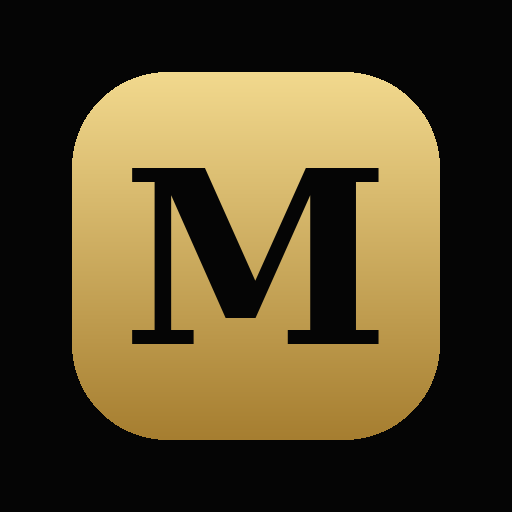
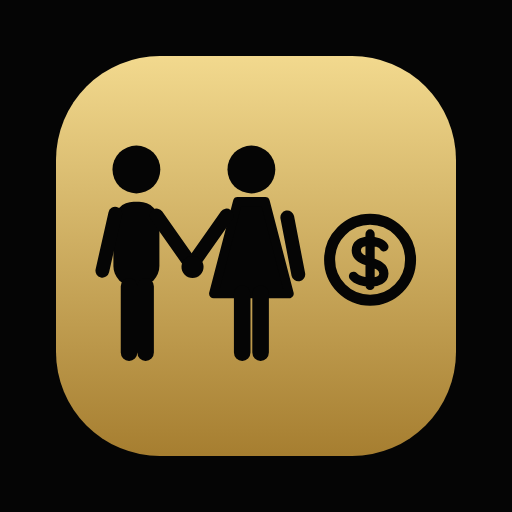
Add files via upload

Changed region(s): [[0.1875, 0.2812, 0.8125, 0.7188], [0.0938, 0.0938, 0.9062, 0.9062]]

diff --git a/index.html b/index.html
@@ -3,11 +3,11 @@
 <head>
 <meta charset="utf-8">
 <meta name="viewport" content="width=device-width, initial-scale=1">
-<title>Minhas Finanças</title>
+<title>Finanças Família Rocha</title>
 <meta name="theme-color" content="#050505">
 <meta name="apple-mobile-web-app-capable" content="yes">
 <meta name="mobile-web-app-capable" content="yes">
-<meta name="apple-mobile-web-app-title" content="Finanças">
+<meta name="apple-mobile-web-app-title" content="Família Rocha">
 <meta name="apple-mobile-web-app-status-bar-style" content="black">
 <link rel="manifest" href="manifest.webmanifest">
 <link rel="icon" type="image/png" href="icone-192.png">
@@ -284,14 +284,32 @@ h1, h2, h3, p { margin: 0; text-wrap: balance; }
   .login { border-radius: 20px; }
 }
 
+.marca-selo svg { width: 24px; height: auto; display: block; }
+.login-marca .marca-nome { font-size: 19px; }
+
 </style>
 </head>
 <body>
 <div class="app">
   <header class="topo">
     <div class="marca">
-      <span class="marca-selo" aria-hidden="true">M</span>
-      <span class="marca-nome">Minhas Finanças</span>
+      <span class="marca-selo" aria-hidden="true"><svg xmlns="http://www.w3.org/2000/svg" viewBox="105 130 360 260" aria-hidden="true"><g fill="#050505" stroke="#050505" stroke-linecap="round" stroke-linejoin="round">
+  <circle cx="160" cy="168" r="26" stroke="none"/>
+  <rect x="135" y="203" width="50" height="92" rx="22" stroke="none"/>
+  <path d="M152 295v72M170 295v72" stroke-width="18" fill="none"/>
+  <path d="M137 216l-14 62" stroke-width="15" fill="none"/>
+  <path d="M182 218l38 54" stroke-width="15" fill="none"/>
+  <circle cx="285" cy="168" r="26" stroke="none"/>
+  <path d="M270 203h30l26 100h-82z" stroke-width="10"/>
+  <path d="M275 303v64M295 303v64" stroke-width="18" fill="none"/>
+  <path d="M324 220l12 62" stroke-width="15" fill="none"/>
+  <path d="M258 218l-38 54" stroke-width="15" fill="none"/>
+  <circle cx="221" cy="274" r="12" stroke="none"/>
+  <circle cx="414" cy="266" r="44" fill="none" stroke-width="12"/>
+  <path d="M414 238v56M429 252c-4-8-30-10-30 4 0 15 30 10 30 25 0 13-27 11-33 3" stroke-width="10" fill="none"/>
+</g>
+</svg></span>
+      <span class="marca-nome">Finanças Família Rocha</span>
     </div>
     <nav class="mes" id="seletor-mes" aria-label="Mês exibido"></nav>
     <div class="acoes">
@@ -1861,7 +1879,7 @@ if ('serviceWorker' in navigator && location.protocol === 'https:') {
       const fundo = document.createElement('div');
       fundo.className = 'fundo-modal fundo-login';
       fundo.innerHTML = '<form class="modal login" novalidate>' +
-        '<div class="marca login-marca"><span class="marca-selo" aria-hidden="true">M</span><span class="marca-nome">Minhas Finanças</span></div>' +
+        '<div class="marca login-marca"><span class="marca-selo" aria-hidden="true">' + document.querySelector('.marca-selo').innerHTML + '</span><span class="marca-nome">Finanças Família Rocha</span></div>' +
         '<h2 id="modal-titulo" class="cartao-titulo">Entrar</h2>' +
         '<p class="ajuda">Use o e-mail e a senha cadastrados para você.</p>' +
         '<p id="erro-login" class="erros" role="alert" hidden></p>' +

diff --git a/sw.js b/sw.js
@@ -1,5 +1,5 @@
 // Guarda a página para abrir mesmo com internet ruim. Os dados nunca ficam aqui: vêm sempre do banco.
-const VERSAO = 'financas-1795117875749';
+const VERSAO = 'financas-1795122250881';
 const ARQUIVOS = ['./', './index.html', './manifest.webmanifest', './icone-192.png', './icone-512.png', './icone-180.png'];
 
 self.addEventListener('install', (ev) => {
